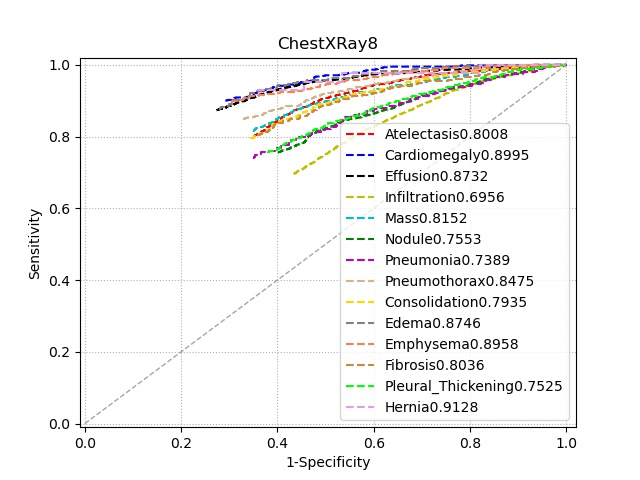
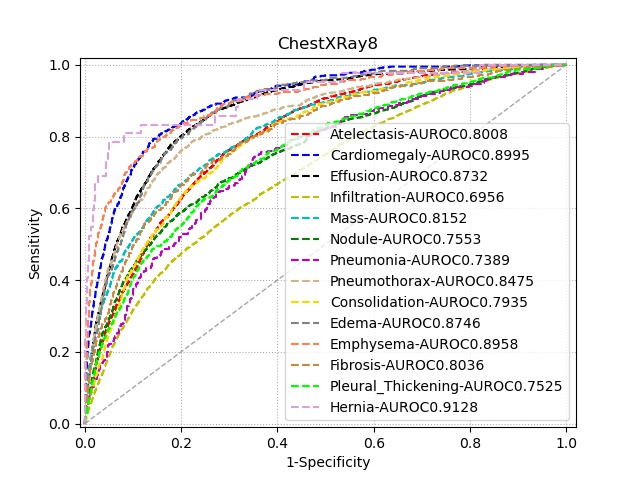
fjs

diff --git a/Utils.py b/Utils.py
@@ -1,5 +1,5 @@
 from sklearn.metrics import roc_auc_score
-from sklearn.metrics import roc_curve
+from sklearn.metrics import roc_curve, auc
 import re
 import sys
 import os
@@ -9,25 +9,21 @@ import numpy as np
 import matplotlib.pyplot as plt
 
 def compute_ROCCurve(gt, pred, class_names):
+    #fpr = 1-Specificity, tpr=Sensitivity
+    np.set_printoptions(suppress=True) #to float
     n_classes = len(class_names)
-    fprs, tprs, thresholds = [], [], []
+    thresholds = []
     gt_np = gt.cpu().numpy()
     pred_np = pred.cpu().numpy()
     color_name =['r','b','k','y','c','g','m','tan','gold','gray','coral','peru','lime','plum']
     for i in range(n_classes):
         fpr, tpr, threshold = roc_curve(gt_np[:, i], pred_np[:, i])
-        auc_score = roc_auc_score(gt_np[:, i], pred_np[:, i])#macro
+        auc_score = auc(fpr, tpr)
+        plt.plot(fpr, tpr, c = color_name[i], ls = '--', label = u'{}-AUROC{:.4f}'.format(class_names[i],auc_score))
         #select the prediction threshold
-        idx = np.where(tpr>auc_score)[0] 
-        fpr = fpr[idx]
-        tpr = tpr[idx]
-        threshold = threshold[idx]
-        idx = np.where(fpr<0.2)[0] 
-        fprs.append(fpr[idx])
-        tprs.append(tpr[idx])
+        idx = np.where(tpr>auc_score)[0][0]
         thresholds.append(threshold[idx])
-        
-        plt.plot(fpr, tpr, c = color_name[i], ls = '--', label = u'{}{:.4f}'.format(class_names[i],auc_score))
+
     #plot and save
     plt.plot((0, 1), (0, 1), c = '#808080', lw = 1, ls = '--', alpha = 0.7)
     plt.xlim((-0.01, 1.02))
@@ -41,7 +37,7 @@ def compute_ROCCurve(gt, pred, class_names):
     plt.title('ChestXRay8')
     plt.savefig('./Imgs/ROCCurve.jpg')
 
-    return fprs, tpr, thresholds
+    return thresholds
 
 def compute_AUCs(gt, pred, N_CLASSES=14):
     AUROCs = []

diff --git a/DenseNetLoc.py b/DenseNetLoc.py
@@ -90,7 +90,8 @@ def WeaklyLocation(CKPT_PATH):
             probs, idx = h_x.sort(0, True) #probabilities of classe
             cls_prob_line = '{:.4f} -> {}'.format(probs[0], classes[idx[0].item()])
             cam_img = returnCAM(var_feature.cpu().data.numpy(), weight_softmax, idx[0].item())
-            IoU_Score,  Dice_Score= genPredBoxes(cam_img, gtbox[0]) # genPredBoxes(var_feature, gtbox[0]) for GramCAM
+            IoU_Score,  Dice_Score= genPredBoxes(cam_img, gtbox[0]) 
+            # genPredBoxes(var_feature, gtbox[0]) for GramCAM
             IoUs.append(IoU_Score.item())
             Dices.append(Dice_Score.item())
             sys.stdout.write('\r Location process: = {}'.format(batch_idx+1))

diff --git a/Main.py b/Main.py
@@ -177,11 +177,7 @@ def Test(CKPT_PATH = ''):
     print('The average AUROC is {:.4f}'.format(AUROC_avg))
 
     #Evaluating the threshold of prediction
-    #fpr = 1-Specificity, tpr=Sensitivity
-    np.set_printoptions(suppress=True) #to float
-    fprs, tprs, thresholds = compute_ROCCurve(gt, pred, CLASS_NAMES)
-    print(fprs)
-    print(tprs)
+    thresholds = compute_ROCCurve(gt, pred, CLASS_NAMES)
     print(thresholds)
 
 def main():
